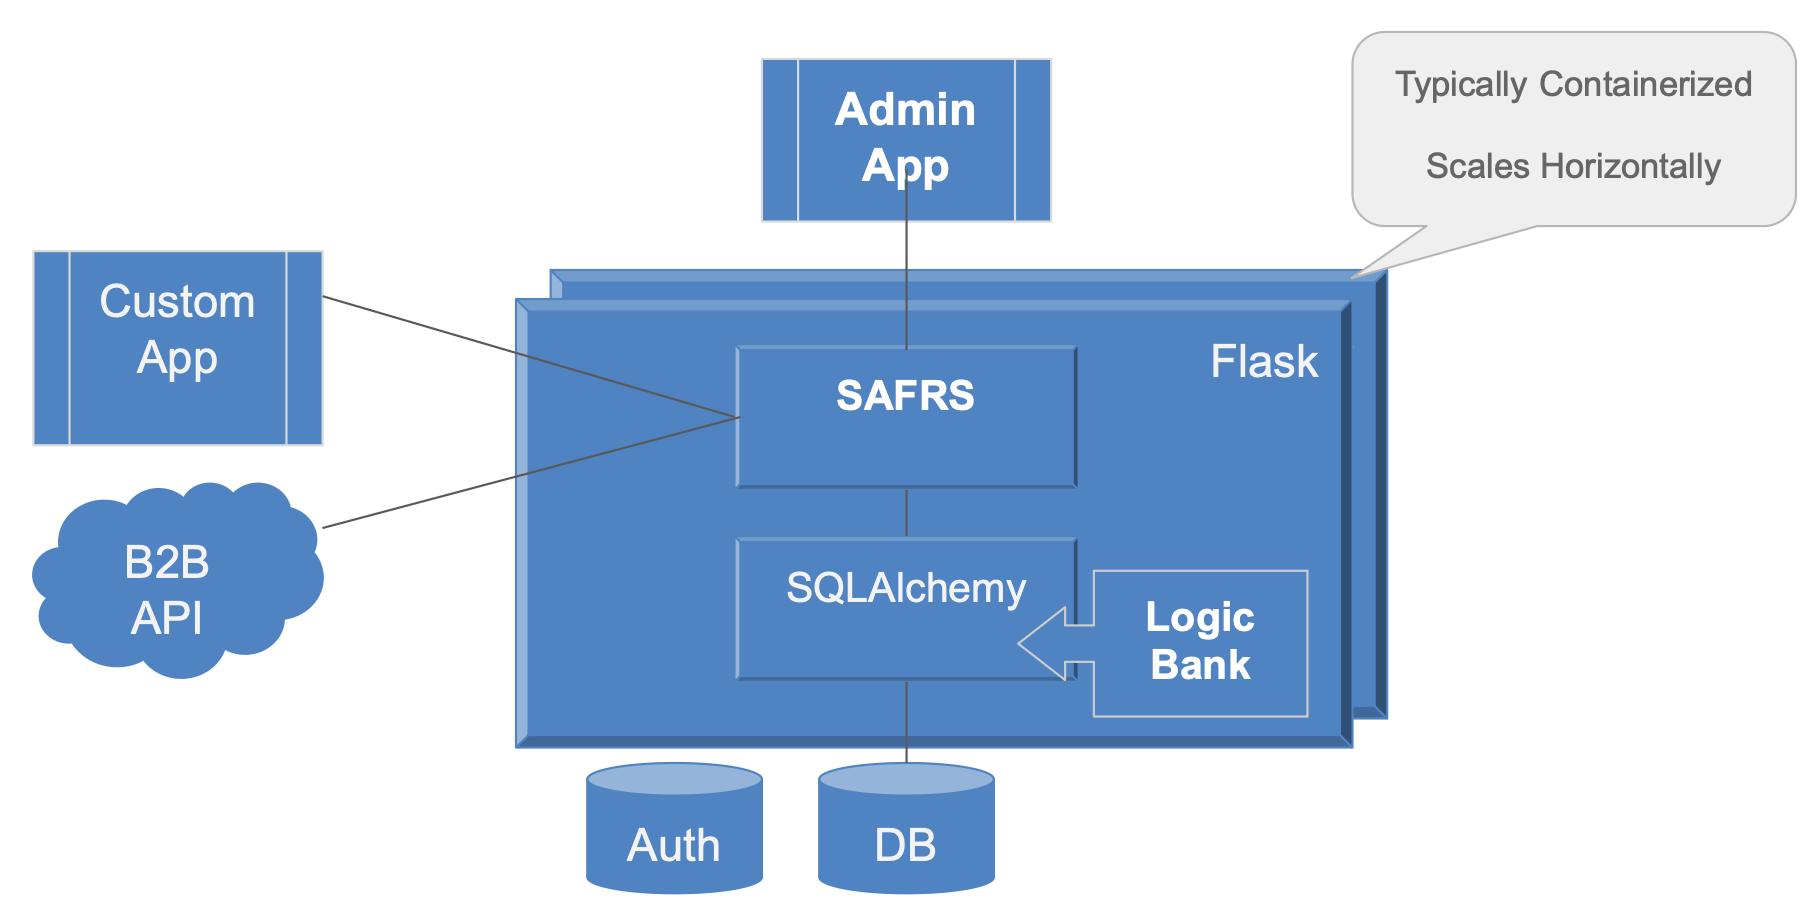
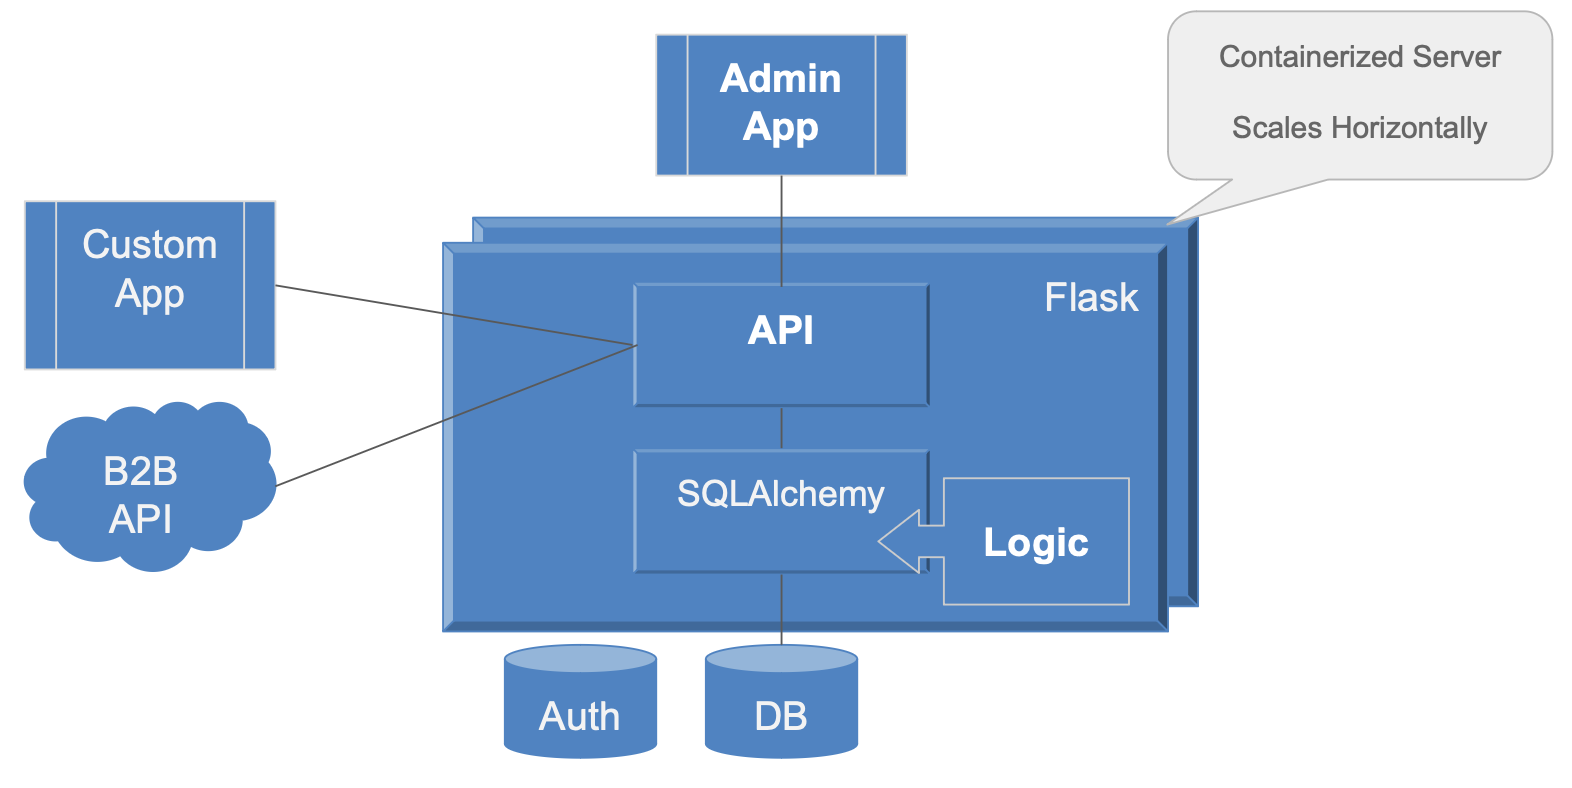
revised arch diagram

diff --git a/docs/index.md b/docs/index.md
@@ -32,7 +32,7 @@ Description: Instantly Create and Run Database Projects - Flask, APIs, SQLAlchem
 
     <details markdown>
 
-    <summary>Click to see Created Admin App, Project</summary>
+    <summary>Click to see Created Admin App, Project, Architecture</summary>
 
     &nbsp;
 
@@ -51,6 +51,14 @@ Description: Instantly Create and Run Database Projects - Flask, APIs, SQLAlchem
     ![Customize in your IDE](images/generated-project.png){ align=left }
 
     [Rebuild services](https://valhuber.github.io/ApiLogicServer/Project-Rebuild/){:target="_blank" rel="noopener"} are provided to accommodate changes to database structure or ORM classes.
+
+    &nbsp;
+
+    **Standard, Scalable Architecture**
+
+    Containerized servers, accessed by APIs.  Logic partitioned out of customized services and browser/server apps for automatic reuse.
+
+    ![API Logic Server Intro](images/Architecture.png)
 
     </details>
 
